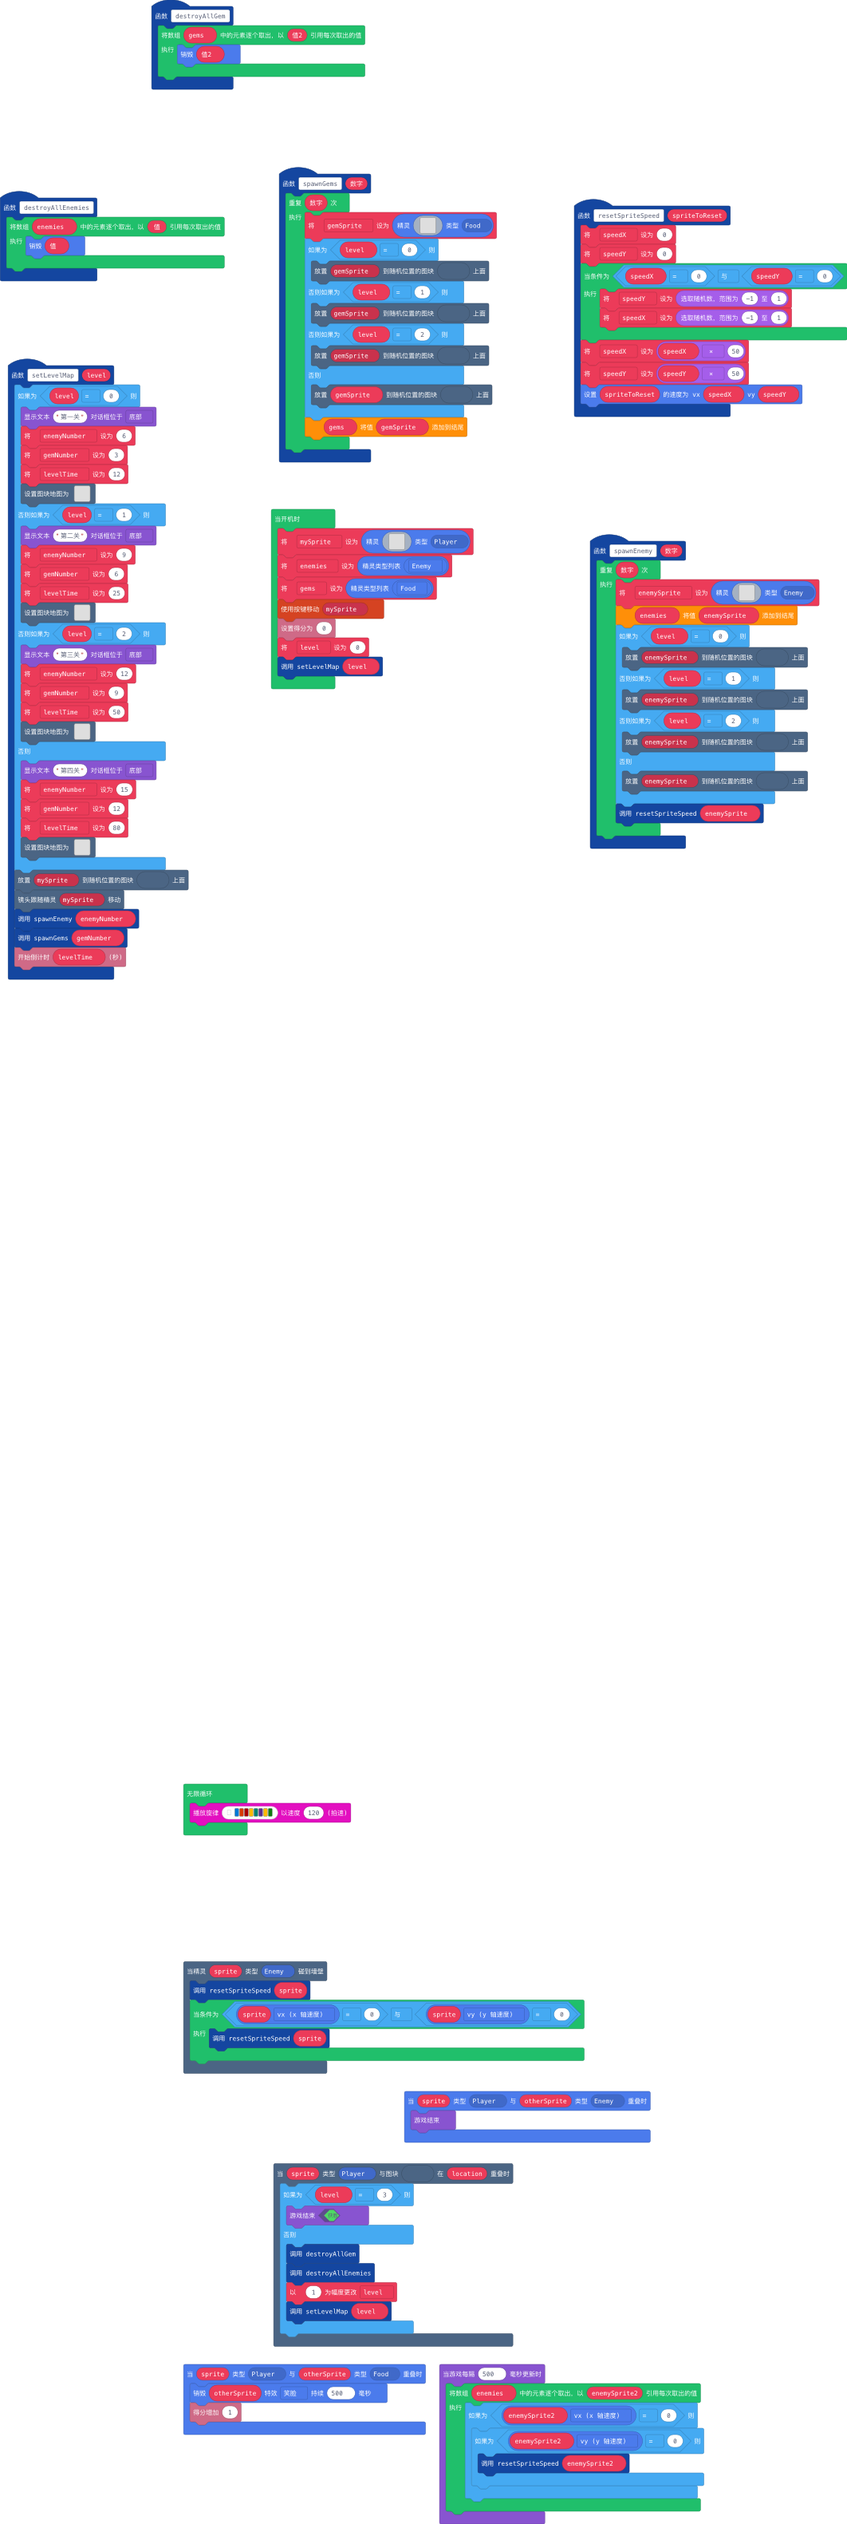
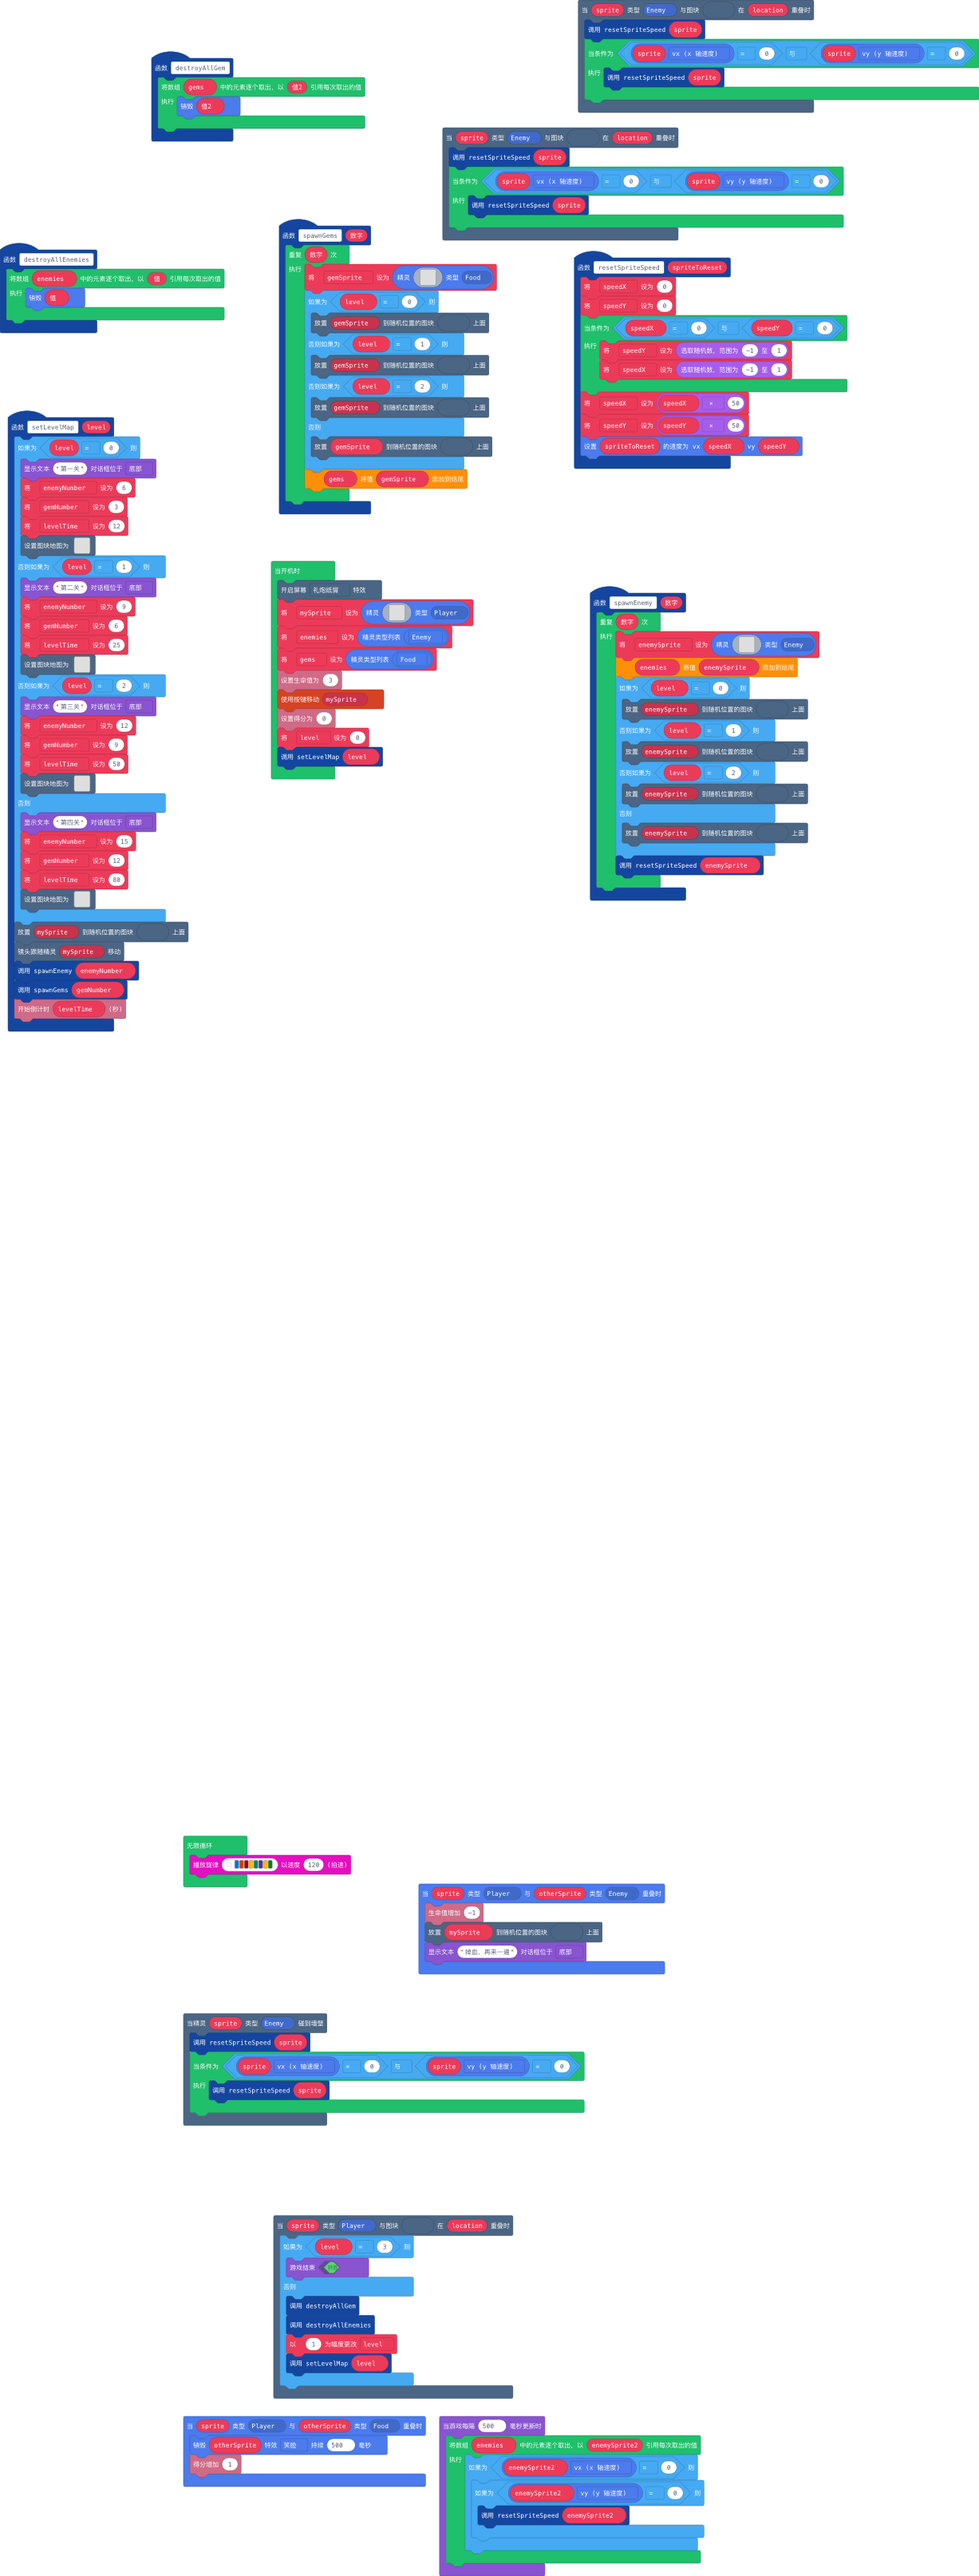
带血，天空带蝴蝶（其实是烟花）

Changed region(s): [[0.0, 0.0, 1.0, 0.4029], [0.1864, 0.6818, 0.839, 1.0]]

diff --git a/main.ts b/main.ts
@@ -62,7 +62,32 @@ d d d d d d d d d d d d d d d d
 . . . . . . . . . . . . . . . . 
 . . . . . . . . . . . . . . . . 
 `
+    //% blockIdentity=images._tile
+    export const tile6 = img`
+. . . . . . . . . . . . . 7 . . 
+. . . . 7 7 7 7 . . . . 7 7 . . 
+. . . . 7 7 7 7 . . . . 7 7 . . 
+. . . 7 7 7 7 7 . . . 7 7 7 7 . 
+. . . 7 7 7 7 7 . . . 7 7 7 7 . 
+. . . 7 7 7 7 7 . . . 7 7 7 7 7 
+. . 7 7 7 7 7 7 . . 7 7 . 7 7 . 
+. . 7 7 7 7 7 7 . . 7 7 7 7 7 . 
+. . 7 7 7 7 7 7 . 7 7 7 7 7 7 . 
+. . 7 7 7 7 7 7 . 7 7 7 7 7 7 . 
+. . 7 7 7 7 7 7 7 7 7 7 7 7 7 . 
+. . 7 7 7 7 7 7 7 7 7 7 7 . 7 . 
+. . 7 7 7 7 7 7 7 7 7 7 7 7 7 . 
+. . 7 7 7 . . . . . . . . . . . 
+. . . . . . . . . . . . . . . . 
+. . . . . . . . . . . . . . . . 
+`
 }
+scene.onOverlapTile(SpriteKind.Enemy, myTiles.tile4, function (sprite, location) {
+    resetSpriteSpeed(sprite)
+    while (sprite.vx == 0 && sprite.vy == 0) {
+        resetSpriteSpeed(sprite)
+    }
+})
 function destroyAllEnemies () {
     for (let 值 of enemies) {
         值.destroy()
@@ -82,6 +107,12 @@ scene.onOverlapTile(SpriteKind.Player, sprites.dungeon.stairLarge, function (spr
         setLevelMap(level)
     }
 })
+scene.onOverlapTile(SpriteKind.Enemy, sprites.castle.tilePath1, function (sprite, location) {
+    resetSpriteSpeed(sprite)
+    while (sprite.vx == 0 && sprite.vy == 0) {
+        resetSpriteSpeed(sprite)
+    }
+})
 scene.onHitWall(SpriteKind.Enemy, function (sprite) {
     resetSpriteSpeed(sprite)
     while (sprite.vx == 0 && sprite.vy == 0) {
@@ -89,7 +120,9 @@ scene.onHitWall(SpriteKind.Enemy, function (sprite) {
     }
 })
 sprites.onOverlap(SpriteKind.Player, SpriteKind.Enemy, function (sprite, otherSprite) {
-    game.over()
+    info.changeLifeBy(-1)
+    tiles.placeOnRandomTile(mySprite, sprites.dungeon.stairLadder)
+    game.showLongText("掉血，再来一遍", DialogLayout.Bottom)
 })
 function setLevelMap (level: number) {
     if (level == 0) {
@@ -98,7 +131,7 @@ function setLevelMap (level: number) {
         gemNumber = 3
         levelTime = 12
         tiles.setTilemap(tiles.createTilemap(
[2 lines of base64/hex data omitted]
             img`
 2 . 2 2 2 2 2 2 2 2 2 2 2 2 . . 
 2 . . . . . . . . . . . . 2 . . 
@@ -117,7 +150,7 @@ function setLevelMap (level: number) {
 . . . 2 . . 2 2 2 2 2 2 . . 2 . 
 . . . 2 . . 2 . . . . 2 . . . 2 
 `,
-            [myTiles.tile0,sprites.castle.tilePath1,sprites.castle.tileGrass2,sprites.castle.tilePath4,sprites.castle.tilePath7,sprites.castle.tilePath8,sprites.castle.tilePath9,sprites.castle.tilePath6,sprites.castle.tilePath3,sprites.castle.tilePath2,sprites.castle.tilePath5,sprites.castle.tileGrass1,sprites.castle.tileGrass3,sprites.dungeon.stairNorth,sprites.dungeon.doorOpenSouth,sprites.dungeon.stairLadder,sprites.dungeon.stairLarge,sprites.builtin.forestTiles20,sprites.builtin.forestTiles24,sprites.builtin.forestTiles27,sprites.builtin.forestTiles11,sprites.builtin.forestTiles7,sprites.builtin.forestTiles0,myTiles.tile4,myTiles.tile5],
+            [myTiles.tile0,sprites.castle.tilePath1,sprites.castle.tileGrass2,sprites.castle.tilePath4,sprites.castle.tilePath7,sprites.castle.tilePath8,sprites.castle.tilePath9,sprites.castle.tilePath6,sprites.castle.tilePath3,sprites.castle.tilePath2,sprites.castle.tilePath5,sprites.castle.tileGrass1,sprites.castle.tileGrass3,sprites.dungeon.stairNorth,sprites.dungeon.doorOpenSouth,sprites.dungeon.stairLadder,sprites.dungeon.stairLarge,sprites.builtin.forestTiles20,sprites.builtin.forestTiles24,sprites.builtin.forestTiles27,sprites.builtin.forestTiles11,sprites.builtin.forestTiles7,sprites.builtin.forestTiles0,myTiles.tile4,myTiles.tile5,myTiles.tile6],
             TileScale.Sixteen
         ))
     } else if (level == 1) {
@@ -126,7 +159,7 @@ function setLevelMap (level: number) {
         gemNumber = 6
         levelTime = 25
         tiles.setTilemap(tiles.createTilemap(
[2 lines of base64/hex data omitted]
             img`
 . . . . . . . 2 2 2 2 2 2 2 2 2 2 2 2 . 
 . . . . . . . 2 . . . . . . . . . 2 . . 
@@ -149,7 +182,7 @@ function setLevelMap (level: number) {
 . . . . 2 2 2 2 2 2 2 2 2 . . . . 2 . . 
 . . . . 2 2 . . . . . . 2 2 2 . 2 2 . . 
 `,
-            [myTiles.tile0,sprites.castle.tilePath1,sprites.castle.tileGrass2,sprites.castle.tilePath4,sprites.castle.tilePath7,sprites.castle.tilePath8,sprites.castle.tilePath9,sprites.castle.tilePath6,sprites.castle.tilePath3,sprites.castle.tilePath2,sprites.castle.tilePath5,sprites.castle.tileGrass1,sprites.castle.tileGrass3,sprites.dungeon.stairNorth,sprites.dungeon.doorOpenSouth,sprites.dungeon.stairLadder,sprites.dungeon.stairLarge,sprites.builtin.forestTiles20,sprites.builtin.forestTiles24,sprites.builtin.forestTiles27,sprites.builtin.forestTiles11,sprites.builtin.forestTiles7,sprites.builtin.forestTiles0,sprites.castle.tileDarkGrass3,sprites.castle.tileDarkGrass2,myTiles.tile4,myTiles.tile5],
+            [myTiles.tile0,sprites.castle.tilePath1,sprites.castle.tileGrass2,sprites.castle.tilePath4,sprites.castle.tilePath7,sprites.castle.tilePath8,sprites.castle.tilePath9,sprites.castle.tilePath6,sprites.castle.tilePath3,sprites.castle.tilePath2,sprites.castle.tilePath5,sprites.castle.tileGrass1,sprites.castle.tileGrass3,sprites.dungeon.stairNorth,sprites.dungeon.doorOpenSouth,sprites.dungeon.stairLadder,sprites.dungeon.stairLarge,sprites.builtin.forestTiles20,sprites.builtin.forestTiles24,sprites.builtin.forestTiles27,sprites.builtin.forestTiles11,sprites.builtin.forestTiles7,sprites.builtin.forestTiles0,sprites.castle.tileDarkGrass3,sprites.castle.tileDarkGrass2,myTiles.tile4,myTiles.tile5,myTiles.tile6],
             TileScale.Sixteen
         ))
     } else if (level == 2) {
@@ -186,7 +219,7 @@ function setLevelMap (level: number) {
 2 2 . . . . . . . . . . . . . . . . . . . . 2 2 2 
 2 2 2 2 2 2 2 2 2 2 2 2 2 2 2 2 2 2 2 2 2 2 2 2 2 
 `,
-            [myTiles.tile0,sprites.castle.tilePath1,sprites.castle.tileGrass2,sprites.castle.tilePath4,sprites.castle.tilePath7,sprites.castle.tilePath8,sprites.castle.tilePath9,sprites.castle.tilePath6,sprites.castle.tilePath3,sprites.castle.tilePath2,sprites.castle.tilePath5,sprites.castle.tileGrass1,sprites.castle.tileGrass3,sprites.dungeon.stairNorth,sprites.dungeon.doorOpenSouth,sprites.dungeon.stairLadder,sprites.dungeon.stairLarge,sprites.builtin.forestTiles20,sprites.builtin.forestTiles24,sprites.builtin.forestTiles27,sprites.builtin.forestTiles11,sprites.builtin.forestTiles7,sprites.builtin.forestTiles0,sprites.dungeon.floorLight0,sprites.dungeon.darkGroundCenter,sprites.dungeon.floorLightMoss,sprites.dungeon.floorLight5,sprites.dungeon.floorLight3,sprites.dungeon.floorLight4,sprites.dungeon.greenOuterEast2,sprites.dungeon.floorLight1,sprites.dungeon.floorLight2,myTiles.tile4,myTiles.tile5],
+            [myTiles.tile0,sprites.castle.tilePath1,sprites.castle.tileGrass2,sprites.castle.tilePath4,sprites.castle.tilePath7,sprites.castle.tilePath8,sprites.castle.tilePath9,sprites.castle.tilePath6,sprites.castle.tilePath3,sprites.castle.tilePath2,sprites.castle.tilePath5,sprites.castle.tileGrass1,sprites.castle.tileGrass3,sprites.dungeon.stairNorth,sprites.dungeon.doorOpenSouth,sprites.dungeon.stairLadder,sprites.dungeon.stairLarge,sprites.builtin.forestTiles20,sprites.builtin.forestTiles24,sprites.builtin.forestTiles27,sprites.builtin.forestTiles11,sprites.builtin.forestTiles7,sprites.builtin.forestTiles0,sprites.dungeon.floorLight0,sprites.dungeon.darkGroundCenter,sprites.dungeon.floorLightMoss,sprites.dungeon.floorLight5,sprites.dungeon.floorLight3,sprites.dungeon.floorLight4,sprites.dungeon.greenOuterEast2,sprites.dungeon.floorLight1,sprites.dungeon.floorLight2,myTiles.tile4,myTiles.tile5,myTiles.tile6],
             TileScale.Sixteen
         ))
     } else {
@@ -234,7 +267,7 @@ function setLevelMap (level: number) {
 2 . . . . . . . . . . . . . . . . . . . . . . . . . . . . . . . . . . 2 
 2 2 2 2 2 2 2 2 2 2 2 2 2 2 2 2 2 2 2 2 2 2 2 2 2 2 2 2 2 2 2 2 2 2 2 2 
 `,
-            [myTiles.tile0,myTiles.tile4,sprites.castle.tileDarkGrass3,sprites.dungeon.greenOuterNorthWest,sprites.dungeon.greenOuterNorthEast,sprites.dungeon.greenOuterSouthWest,sprites.dungeon.greenOuterSouthEast,sprites.dungeon.greenOuterNorth2,sprites.dungeon.greenOuterNorth0,sprites.dungeon.greenOuterSouth2,sprites.dungeon.greenOuterEast2,sprites.dungeon.greenOuterWest2,sprites.dungeon.greenOuterEast0,sprites.dungeon.greenInnerNorthWest,sprites.dungeon.greenInnerNorthEast,sprites.dungeon.greenInnerSouthEast,sprites.dungeon.greenInnerSouthWest,sprites.dungeon.darkGroundCenter,sprites.dungeon.floorLight0,sprites.dungeon.hazardLava1,sprites.dungeon.floorLight2,sprites.castle.tilePath5,sprites.builtin.forestTiles0,sprites.dungeon.stairLadder,sprites.dungeon.stairLarge,sprites.dungeon.purpleOuterSouth0,sprites.dungeon.floorDark0,sprites.vehicle.roadHorizontal,sprites.vehicle.roadVertical,sprites.builtin.crowd0,sprites.builtin.crowd3,sprites.builtin.brick,sprites.castle.tilePath8,myTiles.tile5,sprites.dungeon.collectibleInsignia,sprites.dungeon.greenOuterNorth1],
+            [myTiles.tile0,myTiles.tile4,sprites.castle.tileDarkGrass3,sprites.dungeon.greenOuterNorthWest,sprites.dungeon.greenOuterNorthEast,sprites.dungeon.greenOuterSouthWest,sprites.dungeon.greenOuterSouthEast,sprites.dungeon.greenOuterNorth2,sprites.dungeon.greenOuterNorth0,sprites.dungeon.greenOuterSouth2,sprites.dungeon.greenOuterEast2,sprites.dungeon.greenOuterWest2,sprites.dungeon.greenOuterEast0,sprites.dungeon.greenInnerNorthWest,sprites.dungeon.greenInnerNorthEast,sprites.dungeon.greenInnerSouthEast,sprites.dungeon.greenInnerSouthWest,sprites.dungeon.darkGroundCenter,sprites.dungeon.floorLight0,sprites.dungeon.hazardLava1,sprites.dungeon.floorLight2,sprites.castle.tilePath5,sprites.builtin.forestTiles0,sprites.dungeon.stairLadder,sprites.dungeon.stairLarge,sprites.dungeon.purpleOuterSouth0,sprites.dungeon.floorDark0,sprites.vehicle.roadHorizontal,sprites.vehicle.roadVertical,sprites.builtin.crowd0,sprites.builtin.crowd3,sprites.builtin.brick,sprites.castle.tilePath8,myTiles.tile5,sprites.dungeon.collectibleInsignia,sprites.dungeon.greenOuterNorth1,myTiles.tile6],
             TileScale.Sixteen
         ))
     }
@@ -344,6 +377,7 @@ let level = 0
 let gems: Sprite[] = []
 let enemies: Sprite[] = []
 let mySprite: Sprite = null
+effects.confetti.startScreenEffect()
 mySprite = sprites.create(img`
 . . . . f f f f . . . . . 
 . . f f f f f f f f . . . 
@@ -364,6 +398,7 @@ e e f 6 6 6 6 6 6 f e e .
 `, SpriteKind.Player)
 enemies = sprites.allOfKind(SpriteKindLegacy.Enemy)
 gems = sprites.allOfKind(SpriteKindLegacy.Food)
+info.setLife(3)
 controller.moveSprite(mySprite)
 info.setScore(0)
 level = 0
